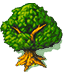
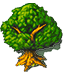
Sprites updated and its collider box

Changed region(s): [[0.5625, 0.5278, 0.9688, 0.9444], [0.25, 0.6944, 0.4062, 0.8611], [0.4062, 0.8889, 0.625, 1.0]]

diff --git a/MFS/MFS/SpriteManager.cs b/MFS/MFS/SpriteManager.cs
@@ -51,20 +51,19 @@ namespace MFS
             Sprite bckgr = new Sprite (Game.Content.Load<Texture2D>(@"Images/Background/grasstiles2"), new Point(32, 32), new Point(2, 1), 0);
 
             //treealive1ID4
-            Sprite treealive1 = new Sprite(Game.Content.Load<Texture2D>(@"Images/Trees/treealive1"), new Point(64,72));
+            Sprite treealive1 = new Sprite(Game.Content.Load<Texture2D>(@"Images/Trees/treealive1"), new Point(56,64));
 
             //treealive2ID5
-            Sprite treealive2 = new Sprite(Game.Content.Load<Texture2D>(@"Images/Trees/treealive2"), new Point(64, 72));
+            Sprite treealive2 = new Sprite(Game.Content.Load<Texture2D>(@"Images/Trees/treealive2"), new Point(56, 72));
 
             //treealive3ID6
             Sprite treealive3 = new Sprite(Game.Content.Load<Texture2D>(@"Images/Trees/treealive3"), new Point(64, 72));
 
-            //TODO: Update TreeStump sprite
             //treestump1ID7
-            Sprite treestump1 = new Sprite(Game.Content.Load<Texture2D>(@"Images/Trees/treestump1"), new Point(64, 72));
+            Sprite treestump1 = new Sprite(Game.Content.Load<Texture2D>(@"Images/Trees/treestump1"), new Point(32, 32));
 
             //treedead1ID8
-            Sprite treedead1 = new Sprite(Game.Content.Load<Texture2D>(@"Images/Trees/treedead1"), new Point(64, 72));
+            Sprite treedead1 = new Sprite(Game.Content.Load<Texture2D>(@"Images/Trees/treedead1"), new Point(56, 64));
 
             //houseID9
             Sprite house = new Sprite(Game.Content.Load<Texture2D>(@"Images/House/House"), new Point(100, 100));

diff --git a/MFS/MFS/Entity.cs b/MFS/MFS/Entity.cs
@@ -58,9 +58,9 @@ namespace MFS
             this.spriteID = spriteID;
 
             Size = SpriteManager.Instance.GetSprite(spriteID).FrameSize;
-            
-            //TODO: add offset
-            CollisionRect = new Rectangle((int)position.X, (int)position.Y, size.X, size.Y);
+
+            int offset = 10; //gives a more realistic collider box
+            CollisionRect = new Rectangle((int)position.X, (int)position.Y, size.X - offset, size.Y - offset);
         }
         
         public abstract void Update(GameTime gameTime, Rectangle clientBounds);

diff --git a/MFS/MFS/World.cs b/MFS/MFS/World.cs
@@ -10,7 +10,6 @@ namespace MFS
 {
     public class World
     {
-        
         private Tile[,] tiles;
         private const int TILESIZE = 32;
         private List<Tile> availableTiles;
